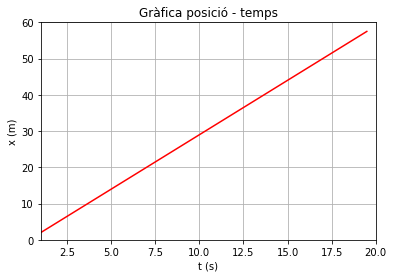
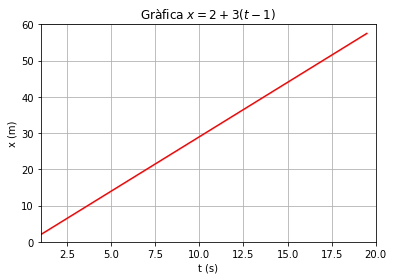
cambios en mov1

diff --git a/mov/mov1.md b/mov/mov1.md
@@ -154,7 +154,7 @@ plot(t, x)
 
 
 
-    [<matplotlib.lines.Line2D at 0x7f234f09c908>]
+    [<matplotlib.lines.Line2D at 0x7f6487673860>]
 
 
 
@@ -166,7 +166,7 @@ Podem afegir-hi un titol a la gràfica, les etiquetesllegendes als eixos i una g
 
 
 ```python
-title("Gràfica posició - temps")
+title(r"Gràfica $x = 2 + 3 (t - 1)$")
 xlabel("t (s)")
 ylabel("x (m)")
 grid()
@@ -178,7 +178,7 @@ plot(t,x,"red")
 
 
 
-    [<matplotlib.lines.Line2D at 0x7f234f025748>]
+    [<matplotlib.lines.Line2D at 0x7f64875a4ac8>]
 
 
 
